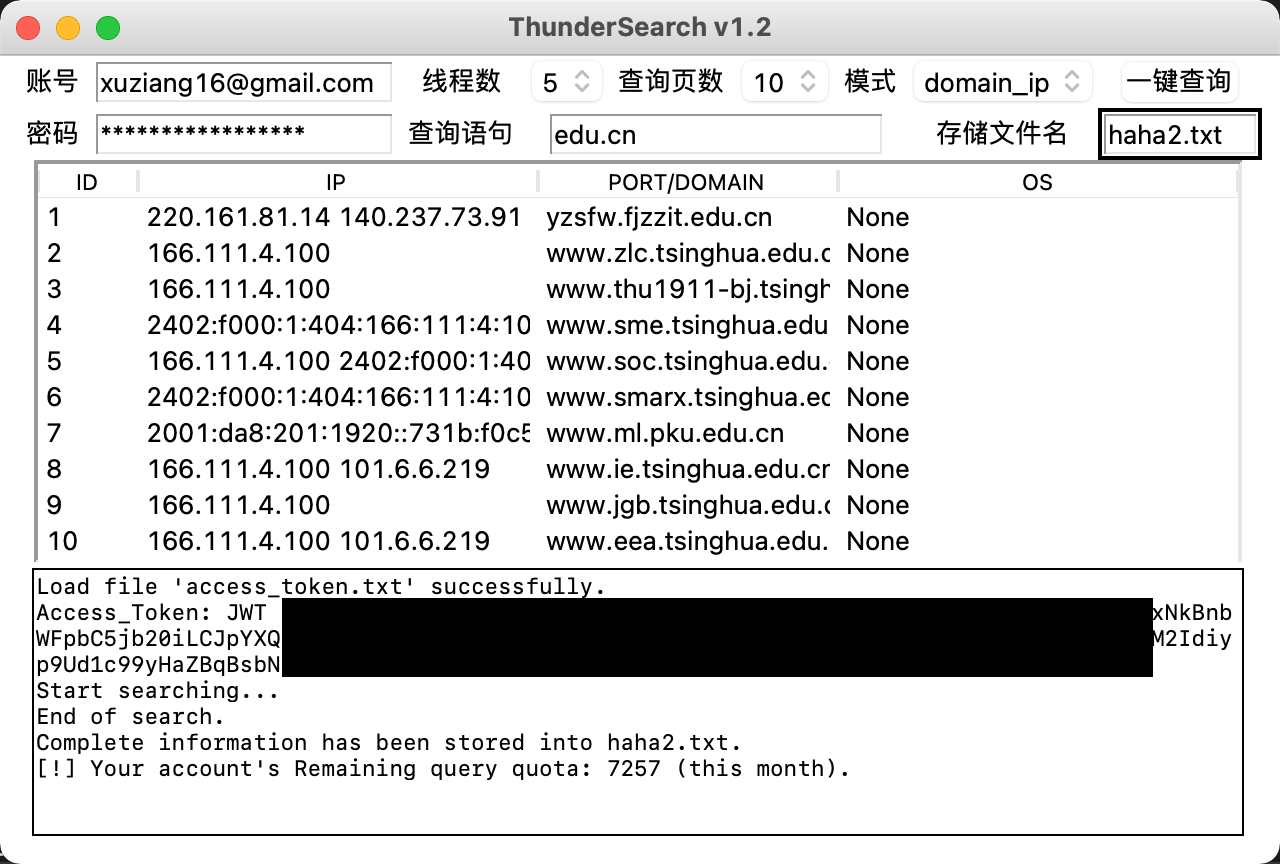
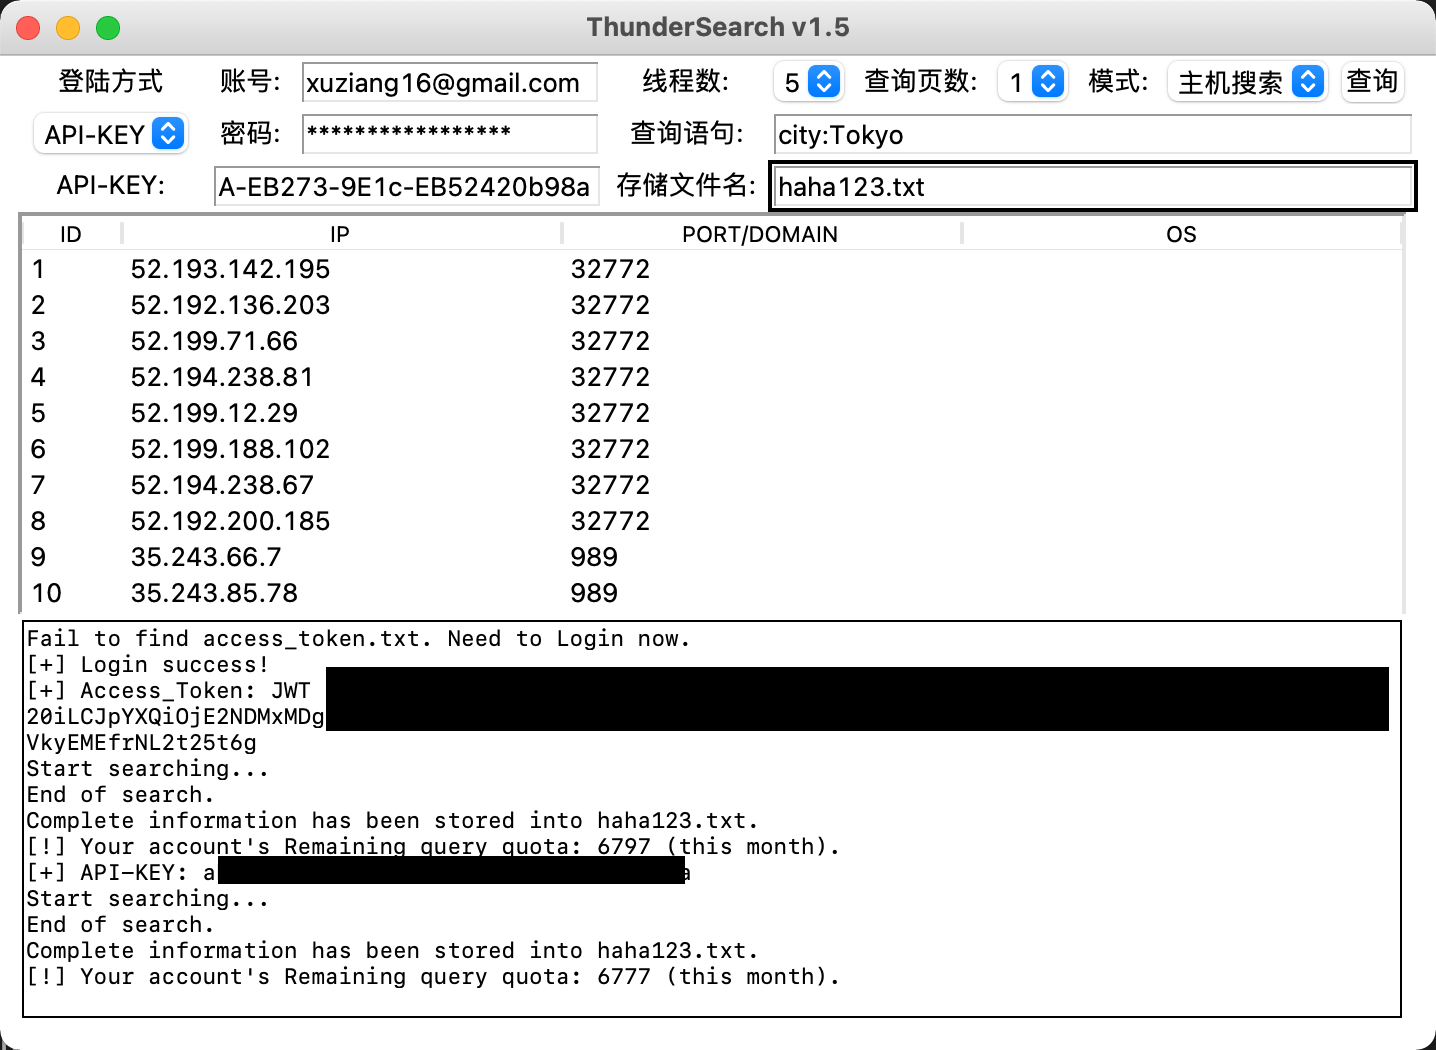
update README.md

Changed region(s): [[0.0, 0.0, 1.0, 1.0]]

diff --git a/README.md b/README.md
@@ -1,9 +1,9 @@
 # ThunderSearch 闪电搜索器
 
-利用ZoomEye的官方api，结合[开发文档](https://www.zoomeye.org/doc#user)，做了这么一个GUI界面的搜索器。目前支持查询`host_search`、`domain/ip`
+利用ZoomEye的官方api，结合[开发文档](https://www.zoomeye.org/doc#user)，做了这么一个GUI界面的搜索器。目前支持查询`主机搜索`、`域名/IP`、`个人信息`
 
 - 支持本地access_token的读取(免登陆)
-- 支持账号(邮箱)+密码登录
+- 支持账号(邮箱)+密码登录和API-KEY登陆
 - 查询显示结果仅为部分，完整内容保存至`指定的文件`
 - 支持查询当月剩余额度
 
@@ -19,5 +19,7 @@ pip install -r requirements.txt
 ![](ThunderSearch.png)
 
 ![](ThunderSearch2.png)
+
+![](ThunderSearch3.png)
 
 ![](https://serverless-page-bucket-lv779z7b-1307395653.cos-website.ap-shanghai.myqcloud.com/ThunderSearch/ThunderSearch_txt.png)
